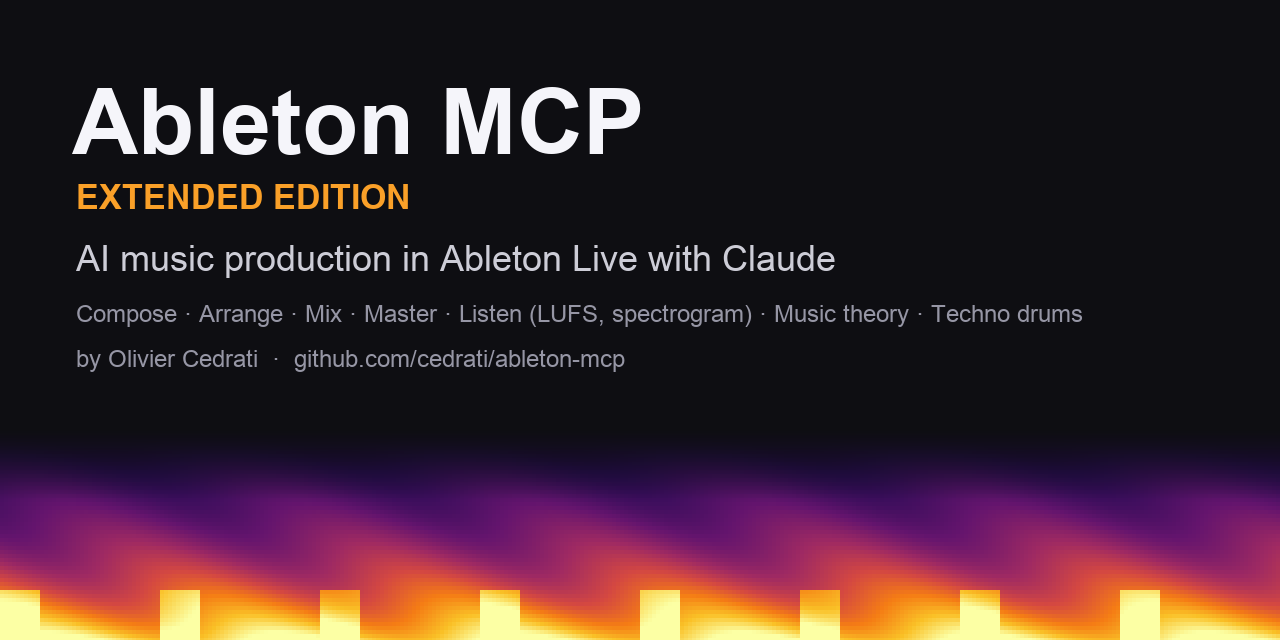
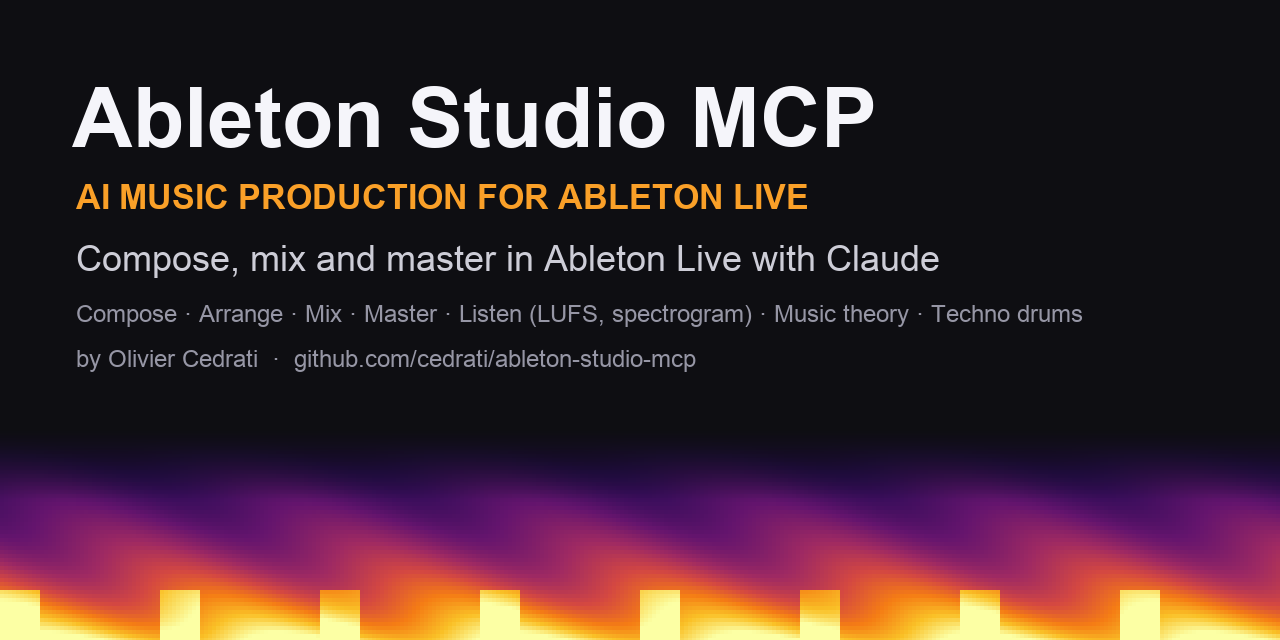
chore: rename to Ableton Studio MCP (cedrati/ableton-studio-mcp)
- package ableton-studio-mcp; commands ableton-studio-mcp and
  ableton-studio-mcp-install-script (old names kept as aliases)
- README, CHANGELOG, URLs, banner, handshake messages
- internal names (~/.ableton-mcp, ABLETON_MCP_* variables, loggers)
  unchanged so existing settings keep working

diff --git a/MCP_Server/script_handshake.py b/MCP_Server/script_handshake.py
@@ -84,7 +84,7 @@ def handshake(send_command) -> dict[str, Any]:
             info["up_to_date"] = False
             logger.warning(
                 "Ableton Remote Script is outdated (no get_script_info). "
-                "Expected %s. Run `ableton-mcp-install-script`, then restart "
+                "Expected %s. Run `ableton-studio-mcp-install-script`, then restart "
                 "Live.",
                 EXPECTED_REMOTE_SCRIPT_VERSION,
             )
@@ -104,7 +104,7 @@ def handshake(send_command) -> dict[str, Any]:
     elif info.get("script_version") and info.get("script_version") != "legacy":
         logger.warning(
             "Remote Script v%s loaded, package expects v%s — run "
-            "`ableton-mcp-install-script`, then restart Ableton.",
+            "`ableton-studio-mcp-install-script`, then restart Ableton.",
             info.get("script_version"),
             EXPECTED_REMOTE_SCRIPT_VERSION,
         )
@@ -121,6 +121,6 @@ def require_capability(name: str) -> str | None:
         f"Ableton Remote Script missing capability '{name}' "
         f"(loaded={info.get('script_version')!r}, "
         f"expected={EXPECTED_REMOTE_SCRIPT_VERSION}). "
-        f"Run `ableton-mcp-install-script` to update the User Remote Script, "
+        f"Run `ableton-studio-mcp-install-script` to update the User Remote Script, "
         f"then restart Ableton Live."
     )

diff --git a/README.md b/README.md
@@ -1,19 +1,19 @@
 <div align="center">
 
-<img src="docs/social-preview.png" alt="Ableton MCP Extended Edition — AI music production in Ableton Live with Claude: compose, arrange, mix, master, listen, music theory, techno drums" width="100%">
+<img src="docs/social-preview.png" alt="Ableton Studio MCP — AI music production in Ableton Live with Claude: compose, arrange, mix, master, listen, music theory, techno drums" width="100%">
 
-# Ableton MCP — Extended Edition
+# Ableton Studio MCP
 
 **The Ableton Live MCP server that lets Claude (or any MCP client) compose, arrange, mix, master, listen to and analyse music in Ableton Live 11 & 12.**
 
-An extended version of [ableton-mcp](https://github.com/ahujasid/ableton-mcp) by **Olivier Cedrati** ([@cedrati](https://github.com/cedrati)).
+By **Olivier Cedrati** ([@cedrati](https://github.com/cedrati)) — built on [ableton-mcp](https://github.com/ahujasid/ableton-mcp) by Siddharth Ahuja.
 
 [![License: MIT](https://img.shields.io/badge/License-MIT-yellow.svg)](LICENSE)
 ![Remote Script](https://img.shields.io/badge/Remote%20Script-1.16.0-blue)
 ![Live](https://img.shields.io/badge/Ableton%20Live-11%20%7C%2012-black)
-[![Tests](https://github.com/cedrati/ableton-mcp/actions/workflows/tests.yml/badge.svg)](https://github.com/cedrati/ableton-mcp/actions/workflows/tests.yml)
+[![Tests](https://github.com/cedrati/ableton-studio-mcp/actions/workflows/tests.yml/badge.svg)](https://github.com/cedrati/ableton-studio-mcp/actions/workflows/tests.yml)
 
-[Quickstart](#quickstart) · [What's new](#what-this-edition-adds) · [Tools](#tool-reference) · [FAQ](#faq) · [Changelog](CHANGELOG.md) · [Issues](https://github.com/cedrati/ableton-mcp/issues)
+[Quickstart](#quickstart) · [Features](#features) · [Tools](#tool-reference) · [FAQ](#faq) · [Changelog](CHANGELOG.md) · [Issues](https://github.com/cedrati/ableton-studio-mcp/issues)
 
 </div>
 
@@ -25,11 +25,11 @@ An extended version of [ableton-mcp](https://github.com/ahujasid/ableton-mcp) by
 
 [Ableton MCP](https://github.com/ahujasid/ableton-mcp), created by Siddharth Ahuja, connects Ableton Live to AI assistants through the [Model Context Protocol](https://modelcontextprotocol.io): the assistant can create tracks and clips, write notes, load devices and drive the transport.
 
-**This edition, written and maintained by Olivier Cedrati, turns it into a full production assistant.** Beyond writing notes, the assistant can mix (faders, sends, return and main-track effects, routing), **listen** to the result and judge it like a mastering engineer (LUFS, true peak, tonal balance, stereo, a spectrogram it can look at), and compose with real music-theory knowledge (scales and modes, style sheets, key and chord analysis, clip transformations, voice-led progressions).
+**Ableton Studio MCP, written and maintained by Olivier Cedrati, builds on it and turns it into a full production assistant.** Beyond writing notes, the assistant can mix (faders, sends, return and main-track effects, routing), **listen** to the result and judge it like a mastering engineer (LUFS, true peak, tonal balance, stereo, a spectrogram it can look at), and compose with real music-theory knowledge (scales and modes, style sheets, key and chord analysis, clip transformations, voice-led progressions).
 
-It is developed on the `feat/mixer-scenes` branch of [cedrati/ableton-mcp](https://github.com/cedrati/ableton-mcp). The `ableton-mcp` package on PyPI is the **original** project and does not include any of this — install from this repository as shown below.
+It is developed on the `feat/mixer-scenes` branch of [cedrati/ableton-studio-mcp](https://github.com/cedrati/ableton-studio-mcp). The `ableton-mcp` package on PyPI is the **original** project and does not include any of this — install Ableton Studio MCP from this repository as shown below. (The commands `ableton-mcp` and `ableton-mcp-install-script` still work as aliases of the new ones.)
 
-## What this edition adds
+## Features
 
 | Area | What the assistant can do |
 |---|---|
@@ -65,7 +65,7 @@ Python (3.10+) and the dependencies, including `numpy`, are installed automatica
 <summary><b>Claude Code</b></summary>
 
 ```bash
-claude mcp add ableton -s user -- uvx --from git+https://github.com/cedrati/ableton-mcp@feat/mixer-scenes ableton-mcp
+claude mcp add ableton -s user -- uvx --from git+https://github.com/cedrati/ableton-studio-mcp@feat/mixer-scenes ableton-studio-mcp
 ```
 </details>
 
@@ -77,7 +77,7 @@ claude mcp add ableton -s user -- uvx --from git+https://github.com/cedrati/able
   "mcpServers": {
     "AbletonMCP": {
       "command": "uvx",
-      "args": ["--from", "git+https://github.com/cedrati/ableton-mcp@feat/mixer-scenes", "ableton-mcp"]
+      "args": ["--from", "git+https://github.com/cedrati/ableton-studio-mcp@feat/mixer-scenes", "ableton-mcp"]
     }
   }
 }
@@ -88,7 +88,7 @@ claude mcp add ableton -s user -- uvx --from git+https://github.com/cedrati/able
 <summary><b>Cursor</b> — Settings → MCP, as a command</summary>
 
 ```
-uvx --from git+https://github.com/cedrati/ableton-mcp@feat/mixer-scenes ableton-mcp
+uvx --from git+https://github.com/cedrati/ableton-studio-mcp@feat/mixer-scenes ableton-studio-mcp
 ```
 </details>
 
@@ -97,7 +97,7 @@ Run the server in **one** client at a time.
 ### 2. Install the Remote Script into Live
 
 ```bash
-uvx --from git+https://github.com/cedrati/ableton-mcp@feat/mixer-scenes ableton-mcp-install-script
+uvx --from git+https://github.com/cedrati/ableton-studio-mcp@feat/mixer-scenes ableton-studio-mcp-install-script
 ```
 
 This copies the script into your User Library's `Remote Scripts/AbletonMCP` folder (found from Live's own settings; `--list-targets` shows where it would go, `--target <folder>` forces a location). A previous version is kept as `__init__.py.bak`.
@@ -117,7 +117,7 @@ Ask the assistant to run `get_remote_script_info`. It should report `script_vers
 
 1. Re-run the install command of step 2.
 2. **Restart Live** — re-selecting the control surface does not reload the code.
-3. Restart your MCP client. If it still runs old code: `uv cache clean ableton-mcp` (with the client closed).
+3. Restart your MCP client. If it still runs old code: `uv cache clean ableton-studio-mcp` (with the client closed).
 
 ---
 
@@ -270,7 +270,7 @@ Live's API doesn't let a script save the set, export audio, create group tracks,
 | Problem | Fix |
 |---|---|
 | `up_to_date: false`, or "missing capability" errors | The script in Live is older than the server. Re-run the install command, then **restart Live**. |
-| The server still runs old code after an update | Restart the MCP client; if needed `uv cache clean ableton-mcp` with the client closed. |
+| The server still runs old code after an update | Restart the MCP client; if needed `uv cache clean ableton-studio-mcp` with the client closed. |
 | No connection | Check that **AbletonMCP** is selected as a Control Surface and that only one MCP client runs the server. |
 | Timeouts on big requests | Ask for the work in smaller steps. |
 
@@ -289,10 +289,10 @@ MCP client (Claude…)  ⇄  MCP server (MCP_Server/, Python)  ⇄  TCP 127.0.0.
 ### Development
 
 ```bash
-git clone -b feat/mixer-scenes https://github.com/cedrati/ableton-mcp
-cd ableton-mcp
+git clone -b feat/mixer-scenes https://github.com/cedrati/ableton-studio-mcp
+cd ableton-studio-mcp
 uv run --with pytest pytest -q          # 262 tests, no Live needed
-uv run ableton-mcp-install-script       # install your working copy into Live
+uv run ableton-studio-mcp-install-script       # install your working copy into Live
 ```
 
 When you change the Remote Script, bump `SCRIPT_VERSION` (and `EXPECTED_REMOTE_SCRIPT_VERSION` in `MCP_Server/remote_script_install.py`, and the package `version` in `pyproject.toml`, which follows the script), copy it to `MCP_Server/bundled_ableton_remote_script/AbletonMCP_init.py`, and add an entry to the [Changelog](CHANGELOG.md). GitHub Actions runs the tests on Python 3.10, 3.12 and 3.13 and checks the bundled copy on every push and pull request.
@@ -308,6 +308,6 @@ The original project includes optional telemetry (anonymous tool usage) and an o
 ## Credits and license
 
 - **Original project:** [ableton-mcp](https://github.com/ahujasid/ableton-mcp) by [Siddharth Ahuja](https://x.com/sidahuj).
-- **Extended edition:** Olivier Cedrati ([@cedrati](https://github.com/cedrati)) — mixing and routing, listening and mastering analysis, music theory, clip editing, MIDI import and reliability work. Report issues about this edition on [cedrati/ableton-mcp](https://github.com/cedrati/ableton-mcp/issues).
+- **Ableton Studio MCP:** Olivier Cedrati ([@cedrati](https://github.com/cedrati)) — mixing and routing, listening and mastering analysis, music theory, clip editing, MIDI import and reliability work. Report issues on [cedrati/ableton-studio-mcp](https://github.com/cedrati/ableton-studio-mcp/issues).
 
-MIT License — Copyright (c) 2026 Olivier Cedrati; portions Copyright (c) 2025 Siddharth Ahuja (original ableton-mcp, on which this edition is built). See [LICENSE](LICENSE). This is a third-party integration, not made or endorsed by Ableton.
+MIT License — Copyright (c) 2026 Olivier Cedrati; portions Copyright (c) 2025 Siddharth Ahuja (original ableton-mcp, on which Ableton Studio MCP is built). See [LICENSE](LICENSE). This is a third-party integration, not made or endorsed by Ableton.

diff --git a/CHANGELOG.md b/CHANGELOG.md
@@ -1,8 +1,8 @@
 # Changelog
 
-Changes in the extended edition by Olivier Cedrati ([cedrati/ableton-mcp](https://github.com/cedrati/ableton-mcp), branch `feat/mixer-scenes`) relative to the original [ahujasid/ableton-mcp](https://github.com/ahujasid/ableton-mcp).
+Changes in Ableton Studio MCP by Olivier Cedrati ([cedrati/ableton-studio-mcp](https://github.com/cedrati/ableton-studio-mcp), branch `feat/mixer-scenes`; formerly cedrati/ableton-mcp) relative to the original [ahujasid/ableton-mcp](https://github.com/ahujasid/ableton-mcp).
 
-The version numbers below are the **Remote Script** version (`SCRIPT_VERSION`), which the server checks through `get_remote_script_info`. After updating, reinstall the script with `ableton-mcp-install-script` and **restart Live** — re-selecting the control surface does not reload the code.
+The version numbers below are the **Remote Script** version (`SCRIPT_VERSION`), which the server checks through `get_remote_script_info`. After updating, reinstall the script with `ableton-studio-mcp-install-script` and **restart Live** — re-selecting the control surface does not reload the code.
 
 ## Remote Script 1.16.0
 
